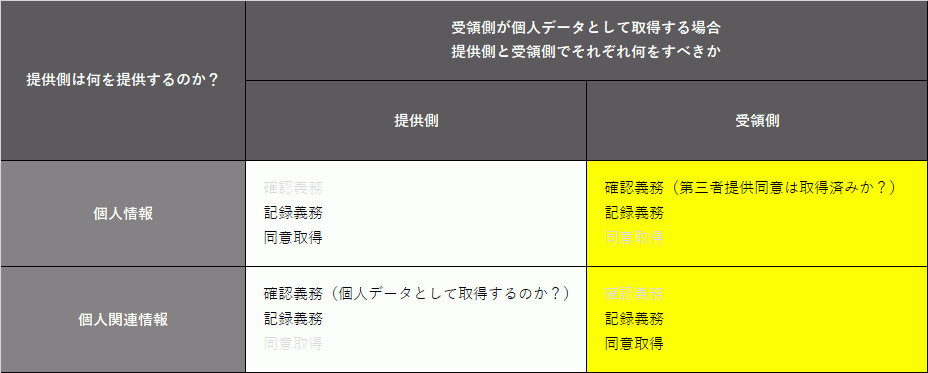
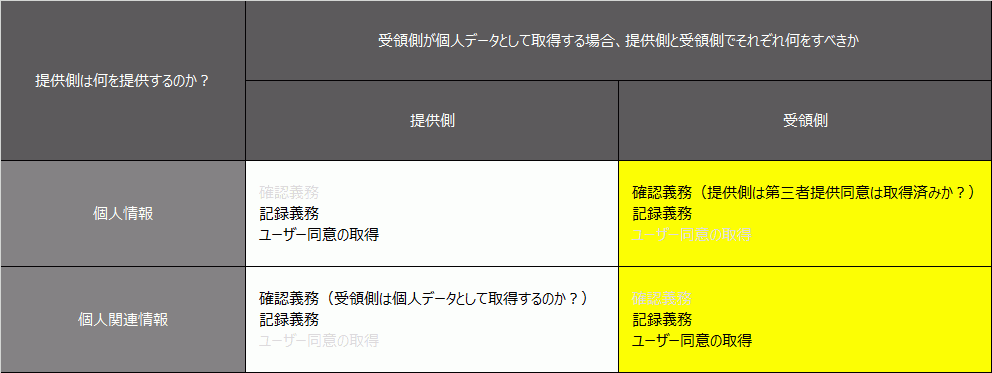
updated

diff --git a/data-gudeline/readme.md b/data-gudeline/readme.md
@@ -27,25 +27,61 @@
 - サービス提供に必須となる Cookie（例えばログインセッションを管理する Cookie）の利用にはユーザー同意が不要
 - マーケティング用語のトラッキング Cookie の利用にはユーザー同意が必要
 
-ということが欧州の e-privacy 指令では定められています。みなさまのサービスが欧州ユーザー（欧州に住む日本人も含め）にも利用される場合、この点で問題がないことをご確認ください。
+ということが欧州の e-privacy 指令で定められています。みなさまのサービスが欧州ユーザー（欧州に住む日本人も含め）にも利用される場合、この点で問題がないことをご確認ください。
 
 ## 第三者提供（受領時）の際の同意や法律対応
 
 <img src='https://raw.githubusercontent.com/nakayama-kazuki/202x/main/data-gudeline/i3.png' />
 
-個人情報を受領するのか、[個人関連情報](https://www.ppc.go.jp/all_faq_index/faq2-q2-8/) を受領するのかでやるべきことが異なります。
+個人情報を受領するのか、
+
+- 性別
+- 年齢
+- 職業
+- ウェブサイトの閲覧履歴
+- 位置情報
+
+などの [個人関連情報](https://www.ppc.go.jp/all_faq_index/faq2-q2-8/) を受領するのか、それぞれの場合でやるべきことが異なります。
 
 <img src='https://raw.githubusercontent.com/nakayama-kazuki/202x/main/data-gudeline/d1-2.png' />
 
-個人情報を受領する場合、その個人情報が提供側で第三者提供についてのユーザー同意が取得済みかを確認する必要があります。また、個人関連情報の受領について、提供側でユーザー同意を取得することが困難な場合は受領側でユーザー同意を取得します。
+2022 年 4 月施行の改正個人情報保護法以前、Cookie に紐づけられたウェブサイトの閲覧履歴の授受に対する規制がなかったため、学生の同意を得ることなく
 
-（背景の説明）
+1. 学生のウェブサイトの閲覧履歴を受領する
+2. ウェブサイトの閲覧履歴から内定辞退の確率を予測する
+3. その予測値を学生の氏名等個人を直接特定する情報と紐づけて保存する（= 個人データ化）
+4. 企業に内定辞退の予測値を提供する
+
+のようなサービスを提供することができてしまい、そのような背景から個人関連情報に関する対応が新たに必要となりました。みなさまのサービスは個人関連情報を個人データとして取得していますか？その場合は必要な対応はできていますか？
 
 ## 自社サービス利用における配慮
 
 <img src='https://raw.githubusercontent.com/nakayama-kazuki/202x/main/data-gudeline/i4.png' />
 
-- 20231023-data-guideline.pptx 参照
+（プライバシー配慮）
+
+慎重に扱う べきデータを含んでいるか
+ex. 性的指向、宗教、信条、人種、民族、経済的貧困、犯罪歴、病気、人間関係
+位置情報の扱いに配慮しているか
+※ 人がどこに所在するかということ自体で、個人の健康状態や思想信条などまで 推測できる場合がある（ex. 介護施設、風俗店）
+法的に守るべきことはないか（ex. 13 歳未満、薬機法制限）
+社会的な優劣 をつける使い方になっていないか
+データの利用タイミングや頻度に問題はないか？（ex. 例えば検索や 閲覧後すぐ に関連したメールを送信した場合の心象）
+
+その他勘案点
+本人のメリットは何か
+ユーザーの予測できない用途か否か
+ユーザーにとっての気持ち悪さはないか
+名寄せによるリスクはないか
+N 数 により個を特定するリスクはないか
+
+（ビジネス配慮、規約遵守）
+
+パートナーやクライアントとの 個別契約 上問題はないか
+ビジネスの 仁義や商習慣 上問題はないか（ex. 楽天の PV を Amazon のリタゲに使う）
+プラットフォーマー のルールは守っているか（ex. Apple 規約、Google 規約）
+
+
 
 ## 委託提供と AI 利用
 
